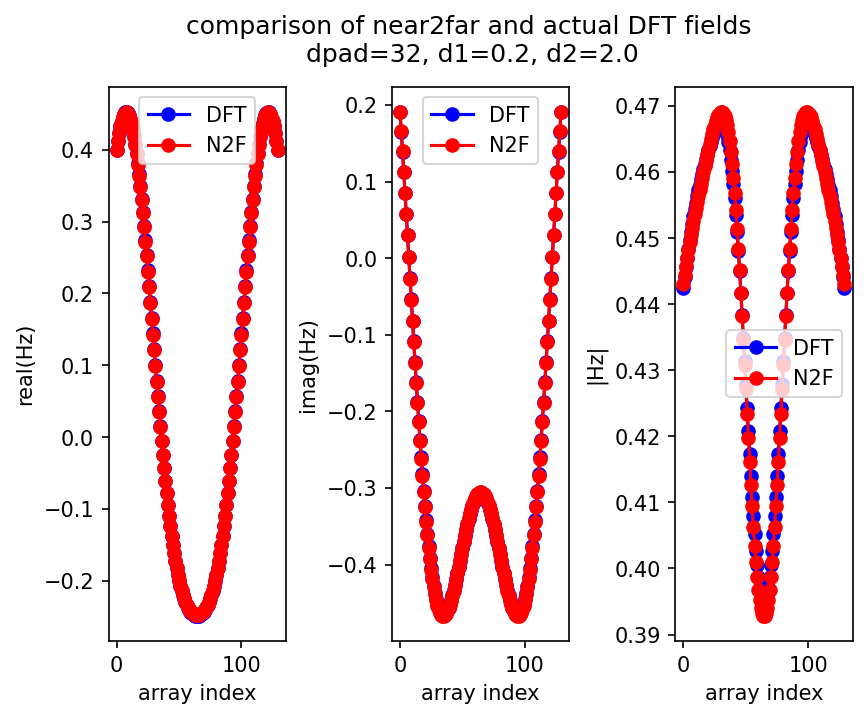
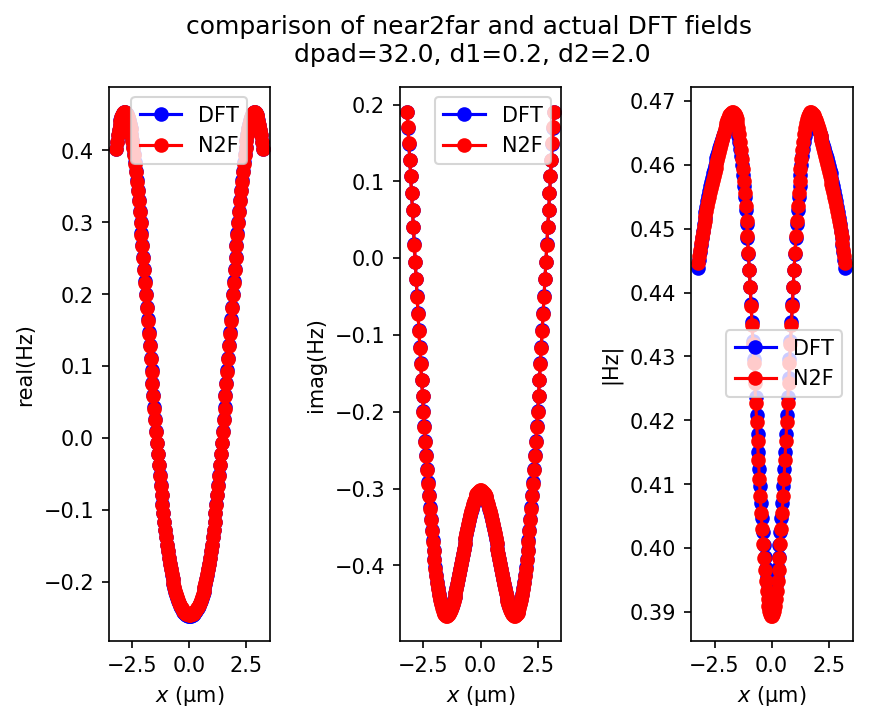
minor tweaks and fixes to docs (#1958)
* minor tweaks and fixes to docs

* add title to plot indicating large errors from finite truncation and numerical dispersion

* mention pymeep-extras Conda package in Installation page

diff --git a/python/examples/cavity-farfield.py b/python/examples/cavity-farfield.py
@@ -92,21 +92,21 @@ if mp.am_master():
     plt.plot(np.real(Hz_mon),'bo-',label='DFT')
     plt.plot(np.real(ff),'ro-',label='N2F')
     plt.legend()
-    plt.xlabel('array index')
+    plt.xlabel('$x$ (μm)')
     plt.ylabel('real(Hz)')
 
     plt.subplot(1,3,2)
     plt.plot(np.imag(Hz_mon),'bo-',label='DFT')
     plt.plot(np.imag(ff),'ro-',label='N2F')
     plt.legend()
-    plt.xlabel('array index')
+    plt.xlabel('$x$ (μm)')
     plt.ylabel('imag(Hz)')
 
     plt.subplot(1,3,3)
     plt.plot(np.abs(Hz_mon),'bo-',label='DFT')
     plt.plot(np.abs(ff),'ro-',label='N2F')
     plt.legend()
-    plt.xlabel('array index')
+    plt.xlabel('$x$ (μm)')
     plt.ylabel('|Hz|')
 
     plt.suptitle(f'comparison of near2far and actual DFT fields\n dpad={dpad}, d1={d1}, d2={d2}')

diff --git a/python/simulation.py b/python/simulation.py
@@ -966,7 +966,7 @@ class Simulation(object):
                  geometry_center: Vector3Type = Vector3(),
                  force_all_components: bool = False,
                  split_chunks_evenly: bool = True,
-                 chunk_layout: Optional[str] = None,
+                 chunk_layout = None,
                  collect_stats: bool = False):
         """
         All `Simulation` attributes are described in further detail below. In brackets

diff --git a/python/examples/metasurface_lens.py b/python/examples/metasurface_lens.py
@@ -4,6 +4,7 @@ import meep as mp
 import numpy as np
 import matplotlib.pyplot as plt
 
+
 resolution = 50         # pixels/μm
 
 dpml = 1.0              # PML thickness

diff --git a/doc/docs/Python_Tutorials/Mode_Decomposition.md b/doc/docs/Python_Tutorials/Mode_Decomposition.md
@@ -15,7 +15,7 @@ This example involves computing the reflectance of the fundamental mode of a lin
 ![](../images/waveguide-taper.png)
 </center>
 
-The structure, which can be viewed as a [two-port network](https://en.wikipedia.org/wiki/Two-port_network), consists of a single-mode waveguide of width 1 μm (`w1`) at a wavelength of 6.67 μm and coupled to a second waveguide of width 2 μm (`w2`) via a linearly-sloped taper of variable length `Lt`. The material is silicon with $\varepsilon=12$. The taper geometry is defined using a single [`Prism`](../Python_User_Interface.md#prism) object with eight vertices. PML absorbing boundaries surround the entire cell. An eigenmode current source with $E_z$ polarization is used to launch the fundamental mode. The dispersion relation (or "band diagram") of the single-mode waveguide is shown in [Tutorial/Eigenmode Source](Eigenmode_Source.md). There is an eigenmode-expansion monitor placed at the midpoint of the first waveguide. This is a line monitor which extends beyond the waveguide in order to span the entire mode profile including its evanescent tails. The Fourier-transformed fields along this line monitor are used to compute the basis coefficients of the harmonic modes. These are computed separately via the eigenmode solver [MPB](https://mpb.readthedocs.io/en/latest/). This is described in [Mode Decomposition](../Mode_Decomposition.md) where it is also shown that the squared magnitude of the mode coefficient is equivalent to the power (Poynting flux) in the given eigenmode. The ratio of the complex mode coefficients can be used to compute the [S parameters](https://en.wikipedia.org/wiki/Scattering_parameters). In this example, we are computing $|S_{11}|^2$ which is the reflectance (shown in the line prefixed by "refl:,"). Another line monitor could have been placed in the second waveguide to compute the transmittance or $|S_{21}|^2$ into the various guided modes (since the second waveguide is multi mode). The scattered power into the radiative modes can then be computed as $1-|S_{11}|^2-|S_{21}|^2$. As usual, a normalization run is required involving a straight waveguide to compute the power in the source.
+The structure, which can be viewed as a [two-port network](https://en.wikipedia.org/wiki/Two-port_network), consists of a single-mode waveguide of width 1 μm (`w1`) at a wavelength of 6.67 μm and coupled to a second waveguide of width 2 μm (`w2`) via a linearly-sloped taper of variable length `Lt`. The material is silicon with $\varepsilon=12$. The taper geometry is defined using a single [`Prism`](../Python_User_Interface.md#prism) object with eight vertices. PML absorbing boundaries surround the entire cell. An eigenmode current source with $E_z$ (or $\mathcal{S}$) polarization is used to launch the fundamental mode. The dispersion relation (or "band diagram") of the single-mode waveguide is shown in [Tutorial/Eigenmode Source](Eigenmode_Source.md). There is an eigenmode-expansion monitor placed at the midpoint of the first waveguide. This is a line monitor which extends beyond the waveguide in order to span the entire mode profile including its evanescent tails. The Fourier-transformed fields along this line monitor are used to compute the basis coefficients of the harmonic modes. These are computed separately via the eigenmode solver [MPB](https://mpb.readthedocs.io/en/latest/). This is described in [Mode Decomposition](../Mode_Decomposition.md) where it is also shown that the squared magnitude of the mode coefficient is equivalent to the power (Poynting flux) in the given eigenmode. The ratio of the complex mode coefficients can be used to compute the [S parameters](https://en.wikipedia.org/wiki/Scattering_parameters). In this example, we are computing $|S_{11}|^2$ which is the reflectance (shown in the line prefixed by "refl:,"). Another line monitor could have been placed in the second waveguide to compute the transmittance or $|S_{21}|^2$ into the various guided modes (since the second waveguide is multi mode). The scattered power into the radiative modes can then be computed as $1-|S_{11}|^2-|S_{21}|^2$. As usual, a normalization run is required involving a straight waveguide to compute the power in the source.
 
 The structure has mirror symmetry in the $y$ direction which can be exploited to reduce the computation size by a factor of two. This requires using `add_flux` rather than `add_mode_monitor` (which is not optimized for symmetry) and specifying the keyword argument `eig_parity=mp.ODD_Z+mp.EVEN_Y` in the call to `get_eigenmode_coefficients`. Alternatively, the waveguide could have been oriented along an arbitrary oblique direction which would require specifying `direction=mp.NO_DIRECTION` and `kpoint_func` as the waveguide axis. For an example, see [Tutorials/Eigenmode Source/Index-Guided Modes in a Ridge Waveguide](Eigenmode_Source.md#index-guided-modes-in-a-ridge-waveguide).
 
@@ -147,9 +147,9 @@ Diffraction Spectrum of a Binary Grating
 
 The mode-decomposition feature can also be applied to planewaves in homogeneous media with scalar permittivity/permeability (i.e., no anisotropy). This will be demonstrated in this example to compute the diffraction spectrum of a binary phase [grating](https://en.wikipedia.org/wiki/Diffraction_grating). To compute the diffraction spectrum for a finite-length structure, see [Tutorials/Near to Far Field Spectra/Diffraction Spectrum of a Finite Binary Grating](Near_to_Far_Field_Spectra.md#diffraction-spectrum-of-a-finite-binary-grating). The unit cell geometry of the grating is shown in the schematic below. The grating is periodic in the $y$ direction with periodicity `gp` and has a rectangular profile of height `gh` and duty cycle `gdc`. The grating parameters are `gh`=0.5 μm, `gdc`=0.5, and `gp`=10 μm. There is a semi-infinite substrate of thickness `dsub` adjacent to the grating. The substrate and grating are glass with a refractive index of 1.5. The surrounding is air/vacuum. Perfectly matched layers (PML) of thickness `dpml` are used in the $\pm x$ boundaries.
 
-### Transmittance Spectra for Planewave at Normal Incidence
+### Transmissive Diffraction Spectrum for Planewave at Normal Incidence
 
-A pulsed planewave with $E_z$ polarization spanning wavelengths of 0.4 to 0.6 μm is normally incident on the grating from the glass substrate. The eigenmode monitor is placed in the air region. We will use mode decomposition to compute the transmittance &mdash; the ratio of the power in the $+x$ direction of the diffracted mode relative to that of the incident planewave &mdash; for the first ten diffraction orders. Two simulations are required: (1) an *empty* cell of homogeneous glass to obtain the incident power of the source, and (2) the grating structure to obtain the diffraction orders. At the end of the simulation, the wavelength, angle, and transmittance for each diffraction order are computed.
+A pulsed planewave with $E_z$ (or $\mathcal{S}$) polarization spanning wavelengths of 0.4 to 0.6 μm is normally incident on the grating from the glass substrate. The eigenmode monitor is placed in the air region. We will use mode decomposition to compute the transmittance &mdash; the ratio of the power in the $+x$ direction of the diffracted mode relative to that of the incident planewave &mdash; for the first ten diffraction orders. Two simulations are required: (1) an *empty* cell of homogeneous glass to obtain the incident power of the source, and (2) the grating structure to obtain the diffraction orders. At the end of the simulation, the wavelength, angle, and transmittance for each diffraction order are computed.
 
 The simulation script is in [examples/binary_grating.py](https://github.com/NanoComp/meep/blob/master/python/examples/binary_grating.py). The notebook is [examples/binary_grating.ipynb](https://nbviewer.jupyter.org/github/NanoComp/meep/blob/master/python/examples/binary_grating.ipynb).
 
@@ -247,7 +247,7 @@ for nm in range(nmode):
     print("grating{}:, {:.5f}, {:.2f}, {:.8f}".format(nm,mode_wvl[-1],mode_angle[-1],mode_tran[-1]))
 ```
 
-Note the use of the keyword parameter argument `eig_parity=mp.ODD_Z+mp.EVEN_Y` in the call to `get_eigenmode_coefficients`. This is important for specifying **non-degenerate** modes in MPB since the `k_point` is (0,0,0). `ODD_Z` is for modes with $E_z$ polarization. `EVEN_Y` is necessary since each diffraction order which is based on a given $k_x$ consists of *two* modes: one going in the $+y$ direction and the other in the $-y$ direction. `EVEN_Y` forces MPB to compute only the $+k_y + -k_y$ (cosine) mode. As a result, the total transmittance must be halved in this case to obtain the transmittance for the individual $+k_y$ or $-k_y$ mode. For `ODD_Y`, MPB will compute the $+k_y - -k_y$ (sine) mode but this will have zero power because the source is even. If the $y$ parity is left out, MPB will return a random superposition of the cosine and sine modes. Alternatively, in this example an input planewave with $H_z$ instead of $E_z$ polarization can be used which requires `eig_parity=mp.EVEN_Z+mp.ODD_Y` as well as an odd mirror symmetry plane in $y$. Finally, note the use of `add_flux` instead of `add_mode_monitor` when using symmetries.
+Note the use of the keyword parameter argument `eig_parity=mp.ODD_Z+mp.EVEN_Y` in the call to `get_eigenmode_coefficients`. This is important for specifying **non-degenerate** modes in MPB since the `k_point` is (0,0,0). `ODD_Z` is for modes with $E_z$ (or $\mathcal{S}$) polarization. `EVEN_Y` is necessary since each diffraction order which is based on a given $k_x$ consists of *two* modes: one going in the $+y$ direction and the other in the $-y$ direction. `EVEN_Y` forces MPB to compute only the $+k_y + -k_y$ (cosine) mode. As a result, the total transmittance must be halved in this case to obtain the transmittance for the individual $+k_y$ or $-k_y$ mode. For `ODD_Y`, MPB will compute the $+k_y - -k_y$ (sine) mode but this will have zero power because the source is even. If the $y$ parity is left out, MPB will return a random superposition of the cosine and sine modes. Alternatively, in this example an input planewave with $H_z$ instead of $E_z$ polarization can be used which requires `eig_parity=mp.EVEN_Z+mp.ODD_Y` as well as an odd mirror symmetry plane in $y$. Finally, note the use of `add_flux` instead of `add_mode_monitor` when using symmetries.
 
 The diffraction spectrum is then plotted and shown in the figure below.
 

diff --git a/doc/docs/Python_User_Interface.md b/doc/docs/Python_User_Interface.md
@@ -87,40 +87,40 @@ control various parameters of the Meep computation.
 
 ```python
 def __init__(self,
-             cell_size: 'Optional[Vector3Type]' = None,
-             resolution: 'float' = None,
-             geometry: 'Optional[List[GeometricObject]]' = None,
-             sources: 'Optional[List[Source]]' = None,
-             eps_averaging: 'bool' = True,
-             dimensions: 'int' = 3,
-             boundary_layers: 'Optional[List[PML]]' = None,
-             symmetries: 'Optional[List[Symmetry]]' = None,
-             force_complex_fields: 'bool' = False,
-             default_material: 'Medium' = Medium(),
-             m: 'float' = 0,
-             k_point: 'Union[Vector3Type, bool]' = False,
-             kz_2d: 'str' = 'complex',
-             extra_materials: 'Optional[List[Medium]]' = None,
-             material_function: 'Optional[Callable[[Vector3Type], Medium]]' = None,
-             epsilon_func: 'Optional[Callable[[Vector3Type], float]]' = None,
-             epsilon_input_file: 'str' = '',
-             progress_interval: 'float' = 4,
-             subpixel_tol: 'float' = 0.0001,
-             subpixel_maxeval: 'int' = 100000,
-             loop_tile_base_db: 'int' = 0,
-             loop_tile_base_eh: 'int' = 0,
-             ensure_periodicity: 'bool' = True,
-             num_chunks: 'int' = 0,
-             Courant: 'float' = 0.5,
-             accurate_fields_near_cylorigin: 'bool' = False,
-             filename_prefix: 'Optional[str]' = None,
-             output_volume: 'Optional[Volume]' = None,
-             output_single_precision: 'bool' = False,
-             geometry_center: 'Vector3Type' = Vector3<0.0, 0.0, 0.0>,
-             force_all_components: 'bool' = False,
-             split_chunks_evenly: 'bool' = True,
-             chunk_layout: 'Optional[str, Simulation, BinaryPartition]' = None,
-             collect_stats: 'bool' = False):
+             cell_size:Union[meep.geom.Vector3, Tuple[float, ...], NoneType]=None,
+             resolution:float=None,
+             geometry:Union[List[meep.geom.GeometricObject], NoneType]=None,
+             sources:Union[List[meep.source.Source], NoneType]=None,
+             eps_averaging:bool=True,
+             dimensions:int=3,
+             boundary_layers:Union[List[meep.simulation.PML], NoneType]=None,
+             symmetries:Union[List[meep.simulation.Symmetry], NoneType]=None,
+             force_complex_fields:bool=False,
+             default_material:meep.geom.Medium=Medium(),
+             m:float=0,
+             k_point:Union[meep.geom.Vector3, Tuple[float, ...], bool]=False,
+             kz_2d:str='complex',
+             extra_materials:Union[List[meep.geom.Medium], NoneType]=None,
+             material_function:Union[Callable[[Union[meep.geom.Vector3, Tuple[float, ...]]], meep.geom.Medium], NoneType]=None,
+             epsilon_func:Union[Callable[[Union[meep.geom.Vector3, Tuple[float, ...]]], float], NoneType]=None,
+             epsilon_input_file:str='',
+             progress_interval:float=4,
+             subpixel_tol:float=0.0001,
+             subpixel_maxeval:int=100000,
+             loop_tile_base_db:int=0,
+             loop_tile_base_eh:int=0,
+             ensure_periodicity:bool=True,
+             num_chunks:int=0,
+             Courant:float=0.5,
+             accurate_fields_near_cylorigin:bool=False,
+             filename_prefix:Union[str, NoneType]=None,
+             output_volume:Union[meep.simulation.Volume, NoneType]=None,
+             output_single_precision:bool=False,
+             geometry_center:Union[meep.geom.Vector3, Tuple[float, ...]]=Vector3<0.0, 0.0, 0.0>,
+             force_all_components:bool=False,
+             split_chunks_evenly:bool=True,
+             chunk_layout=None,
+             collect_stats:bool=False):
 ```
 
 <div class="method_docstring" markdown="1">
@@ -2014,9 +2014,7 @@ where the $|\hat{p}(\omega)|^2$ normalization is necessary for obtaining the pow
 
 Meep can compute a near-to-far-field transformation in the frequency domain as described in [Tutorial/Near-to-Far Field Spectra](Python_Tutorials/Near_to_Far_Field_Spectra.md): given the fields on a "near" bounding surface inside the cell, it can compute the fields arbitrarily far away using an analytical transformation, assuming that the "near" surface and the "far" region lie in a single homogeneous non-periodic 2d, 3d, or cylindrical region. That is, in a simulation *surrounded by PML* that absorbs outgoing waves, the near-to-far-field feature can compute the fields outside the cell as if the outgoing waves had not been absorbed (i.e. in the fictitious infinite open volume). Moreover, this operation is performed on the Fourier-transformed fields: like the flux and force spectra above, you specify a set of desired frequencies, Meep accumulates the Fourier transforms, and then Meep computes the fields at *each frequency* for the desired far-field points.
 
-This is based on the principle of equivalence: given the Fourier-transformed tangential fields on the "near" surface, Meep computes equivalent currents and convolves them with the analytical Green's functions in order to compute the fields at any desired point in the "far" region. For details, see Section 4.2.1 ("The Principle of Equivalence") in [Chapter 4](http://arxiv.org/abs/arXiv:1301.5366) ("Electromagnetic Wave Source Conditions") of the book [Advances in FDTD Computational Electrodynamics: Photonics and Nanotechnology](https://www.amazon.com/Advances-FDTD-Computational-Electrodynamics-Nanotechnology/dp/1608071707).
-
-Note: in order for the far-field results to be accurate, the [far region must be separated from the near region](https://en.wikipedia.org/wiki/Near_and_far_field) by *at least* $2D^2/\lambda$, the Fraunhofer distance, where $D$ is the largest dimension of the radiator and $\lambda$ is the vacuum wavelength.
+This is based on the principle of equivalence: given the Fourier-transformed tangential fields on the "near" surface, Meep computes equivalent currents and convolves them with the analytical Green's functions in order to compute the fields at any desired point in the "far" region. For details, see Section 4.2.1 ("The Principle of Equivalence") in [Chapter 4](http://arxiv.org/abs/arXiv:1301.5366) ("Electromagnetic Wave Source Conditions") of the book [Advances in FDTD Computational Electrodynamics: Photonics and Nanotechnology](https://www.amazon.com/Advances-FDTD-Computational-Electrodynamics-Nanotechnology/dp/1608071707). Since the "far" fields are computed using the full Green's functions, they should be able to be computed *anywhere* outside of the near-field surface monitor. The only limiting factor should be discretization errors but for any given distannce, the "far" fields should converge to the actual DFT fields at that location with resolution (assuming the distance separation is >> resolution).
 
 There are three steps to using the near-to-far-field feature: first, define the "near" surface(s) as a set of surfaces capturing *all* outgoing radiation in the desired direction(s); second, run the simulation, typically with a pulsed source, to allow Meep to accumulate the Fourier transforms on the near surface(s); third, tell Meep to compute the far fields at any desired points (optionally saving the far fields from a grid of points to an HDF5 file). To define the near surfaces, use this `Simulation` method:
 

diff --git a/doc/docs/Python_Tutorials/Near_to_Far_Field_Spectra.md b/doc/docs/Python_Tutorials/Near_to_Far_Field_Spectra.md
@@ -135,7 +135,7 @@ plt.show()
 Focusing Properties of a Metasurface Lens
 -----------------------------------------
 
-This example demonstrates how to compute the far-field profile at the focal length of a metasurface lens. The lens design, which is also part of the tutorial, is based on a supercell of binary-grating unit cells. For a review of the binary-grating geometry as well as a demonstration of computing its phasemap, see [Tutorial/Mode Decomposition/Phase Map of a Subwavelength Binary Grating](Mode_Decomposition.md#phase-map-of-a-subwavelength-binary-grating). The far-field calculation of the lens contains two separate components: (1) compute the phasemap of the unit cell as a function of a single geometric parameter, the duty cycle, while keeping its height and periodicity fixed (1.8 and 0.3 μm), and (2) form the supercell lens by tuning the local phase of each of a variable number of unit cells according to the quadratic formula for planar wavefront focusing. The design wavelength is 0.5 μm and the focal length is 0.2 mm. The input source is an $E_z$-polarized planewave at normal incidence.
+This example demonstrates how to compute the far-field profile at the focal length of a metasurface lens. The lens design, which is also part of the tutorial, is based on a supercell of binary-grating unit cells. For a review of the binary-grating geometry as well as a demonstration of computing its phasemap, see [Tutorial/Mode Decomposition/Phase Map of a Subwavelength Binary Grating](Mode_Decomposition.md#phase-map-of-a-subwavelength-binary-grating). The far-field calculation of the lens contains two separate components: (1) compute the phasemap of the unit cell as a function of a single geometric parameter, the duty cycle (also referred to as the filling fraction), while keeping its height and periodicity fixed (1.8 μm and 0.3 μm, respectively), and (2) form the supercell lens by tuning the local phase of each of a variable number of unit cells according to the quadratic formula for planar wavefront focusing. The operating wavelength is 0.5 μm and the focal length is 0.2 mm. The input source is an $E_z$-polarized planewave at normal incidence.
 
 The simulation script is in [examples/metasurface_lens.py](https://github.com/NanoComp/meep/blob/master/python/examples/metasurface_lens.py). The notebook is [examples/metasurface_lens.ipynb](https://nbviewer.jupyter.org/github/NanoComp/meep/blob/master/python/examples/metasurface_lens.ipynb).
 
@@ -145,6 +145,7 @@ The key to the script is the function `grating` with three geometric input argum
 import meep as mp
 import numpy as np
 import matplotlib.pyplot as plt
+
 
 resolution = 50         # pixels/μm
 
@@ -791,24 +792,24 @@ ff = np.array(ff)
 if mp.am_master():
     plt.figure()
     plt.subplot(1,3,1)
-    plt.plot(np.real(Hz_mon),'bo-',label='DFT')
-    plt.plot(np.real(ff),'ro-',label='N2F')
+    plt.plot(x,np.real(Hz_mon),'bo-',label='DFT')
+    plt.plot(x,np.real(ff),'ro-',label='N2F')
     plt.legend()
-    plt.xlabel('array index')
+    plt.xlabel('$x$ (μm)')
     plt.ylabel('real(Hz)')
 
     plt.subplot(1,3,2)
-    plt.plot(np.imag(Hz_mon),'bo-',label='DFT')
-    plt.plot(np.imag(ff),'ro-',label='N2F')
+    plt.plot(x,np.imag(Hz_mon),'bo-',label='DFT')
+    plt.plot(x,np.imag(ff),'ro-',label='N2F')
     plt.legend()
-    plt.xlabel('array index')
+    plt.xlabel('$x$ (μm)')
     plt.ylabel('imag(Hz)')
 
     plt.subplot(1,3,3)
-    plt.plot(np.abs(Hz_mon),'bo-',label='DFT')
-    plt.plot(np.abs(ff),'ro-',label='N2F')
+    plt.plot(x,np.abs(Hz_mon),'bo-',label='DFT')
+    plt.plot(x,np.abs(ff),'ro-',label='N2F')
     plt.legend()
-    plt.xlabel('array index')
+    plt.xlabel('$x$ (μm)')
     plt.ylabel('|Hz|')
 
     plt.suptitle(f'comparison of near2far and actual DFT fields\n dpad={dpad}, d1={d1}, d2={d2}')
@@ -830,3 +831,7 @@ A closed near-field surface will still disagree with a brute-force far-field cal
 In this example, to demonstrate agreement between the far fields and DFT fields, there are two requirements: (1) the cell size in the $x$ direction via `dpad` needs to be sufficiently large in order to minimize the impact of the spurious radiation from the edge of the near-field surface and (2) the far-field region needs to be sufficiently close to the near-field surface to minimize discrepancies caused by numerical dispersion.
 
 ![center|Comparison of the far fields from the near-to-far field transformation and the DFT fields at the same location for a holey-waveguide cavity.](../images/farfields_vs_DFTfields_holeycavity.png)
+
+When these two conditions are not met as in the example below involving a small `dpad` and large `d2`, the error from the finite truncation and numerical dispersion can be large and therefore result in a significant mismatch between the far fields computed using the near-to-far field transformation versus the actual DFT fields at the same location.
+
+![center|Comparison of the far fields from the near-to-far field transformation dominated by errors and the DFT fields at the same location for a holey-waveguide cavity.](../images/farfields_vs_DFTfields_holeycavity_mismatch.png)

diff --git a/doc/docs/Python_Tutorials/Adjoint_Solver.md b/doc/docs/Python_Tutorials/Adjoint_Solver.md
@@ -2,7 +2,7 @@
 # Adjoint Solver
 ---
 
-Meep has a density-based adjoint solver for efficiently computing the gradient of an arbitrary function of the mode coefficients (S-parameters), DFT fields, and far fields (using the analytic near-to-far field transformation) with respect to $\varepsilon$ on a discrete spatial grid (a [`MaterialGrid`](../Python_User_Interface.md#materialgrid) class object) at multiple frequencies over a broad bandwidth. Regardless of the number of degrees of freedom for the grid points, just **two** separate timestepping runs are required. The first run is the "forward" calculation to compute the objective function and the DFT fields of the design region. The second run is the "adjoint" calculation to compute the gradient of the objective function with respect to the design variables. The adjoint run involves a special type of source distribution used to compute the DFT fields of the design region. The gradient is computed in post processing using the DFT fields from the forward and adjoint runs. This is all done automatically, and is described in:
+Meep contains an adjoint-solver module for efficiently computing the gradient of an arbitrary function of the mode coefficients (S-parameters), DFT fields, and far fields (using the analytic near-to-far field transformation) with respect to $\varepsilon$ on a discrete spatial grid (a [`MaterialGrid`](../Python_User_Interface.md#materialgrid) class object) at multiple frequencies over a broad bandwidth. Regardless of the number of degrees of freedom for the grid points, just **two** separate timestepping runs are required. The first run is the "forward" calculation to compute the objective function and the DFT fields of the design region. The second run is the "adjoint" calculation to compute the gradient of the objective function with respect to the design variables. The adjoint run involves a special type of source distribution used to compute the DFT fields of the design region. The gradient is computed in post processing using the DFT fields from the forward and adjoint runs. This is all done automatically, and is described in:
 
 - A. M. Hammond, A. Oskooi, M. Chen, Z. Lin, S. G. Johnson, and S. E. Ralph, “[High-performance hybrid time/frequency-domain topology optimization for large-scale photonics inverse design](https://doi.org/10.1364/OE.442074),” *Optics Express*, vol. 30, no. 3, pp. 4467–4491 (2022).
 

diff --git a/doc/docs/Installation.md b/doc/docs/Installation.md
@@ -28,13 +28,13 @@ bash miniconda.sh -b -p <desired_prefix>
 export PATH=<desired_prefix>/bin:$PATH
 ```
 
-Next, we create a Conda environment for PyMeep to isolate it from other Python libraries that may be installed.
+Next, we create a Conda environment for PyMeep (serial version) to isolate it from other Python libraries that may be installed.
 
 ```bash
-conda create -n mp -c conda-forge pymeep
+conda create -n mp -c conda-forge pymeep pymeep-extras
 ```
 
-This creates an environment called "mp" (you can name this anything you like) with PyMeep and all its dependencies. This will default to the version of Python in your Miniconda installation (Python 3 for us since we installed Miniconda3), but if you want to work with Python 2, just add `python=2` to the end of the command.
+This creates an environment called "mp" (you can name this anything you like) with PyMeep and all its dependencies. This will default to the version of Python in your Miniconda installation. The optional "pymeep-extras" package contains scipy, matplotlib, autograd, and other packages necessary if you want to try out the tutorial examples.
 
 Next, we need to activate the environment before we can start using it.
 

diff --git a/README.md b/README.md
@@ -3,7 +3,7 @@
 [![CI](https://github.com/NanoComp/meep/actions/workflows/build-ci.yml/badge.svg)](https://github.com/NanoComp/meep/actions/workflows/build-ci.yml)
 [![Sanitizers](https://github.com/NanoComp/meep/actions/workflows/build-san.yml/badge.svg)](https://github.com/NanoComp/meep/actions/workflows/build-san.yml)
 [![Latest Docs](https://readthedocs.org/projects/meep/badge/?version=latest)](http://meep.readthedocs.io/en/latest/)
-![Python versions 3.6–3.9](https://img.shields.io/badge/python-3.6%2C%203.7%2C%203.8%2C%203.9-brightgreen.svg)
+![Python versions 3.7–3.10](https://img.shields.io/badge/python-3.7%2C%203.7%2C%203.8%2C%203.10-brightgreen.svg)
 [![codecov](https://codecov.io/gh/NanoComp/meep/branch/master/graph/badge.svg?token=k88ZuW3795)](https://codecov.io/gh/NanoComp/meep)
 
 **Meep** is a free and open-source software package for [electromagnetics](https://en.wikipedia.org/wiki/Electromagnetism) simulation via the [finite-difference time-domain](https://en.wikipedia.org/wiki/Finite-difference_time-domain_method) (FDTD) method spanning a broad range of applications.
